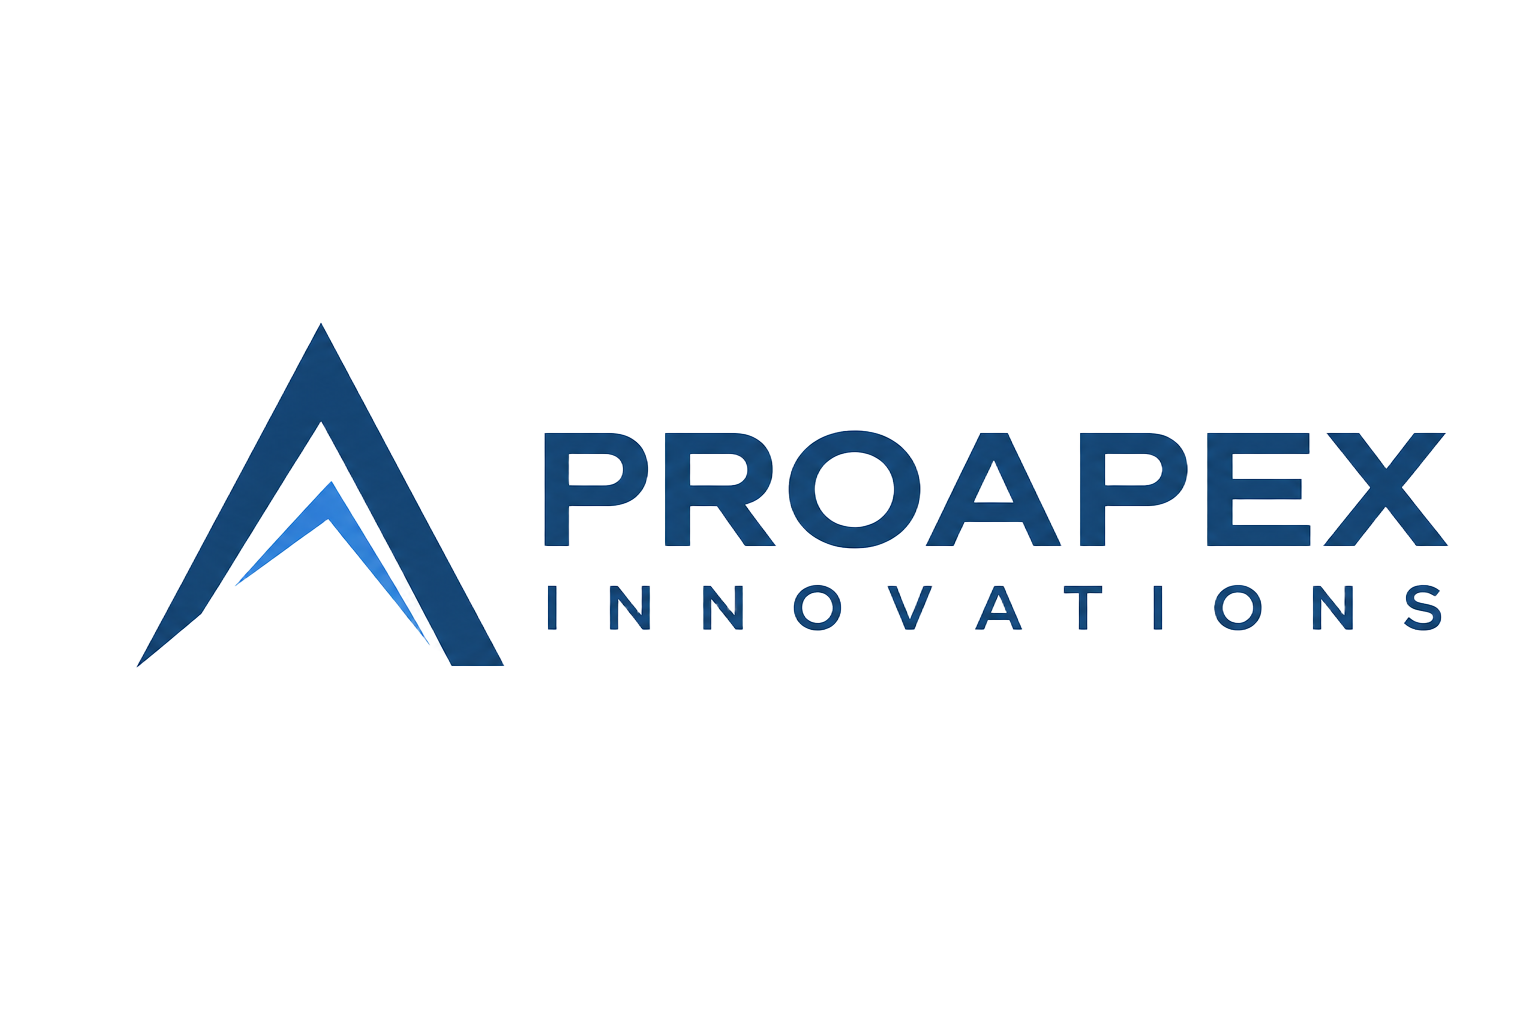
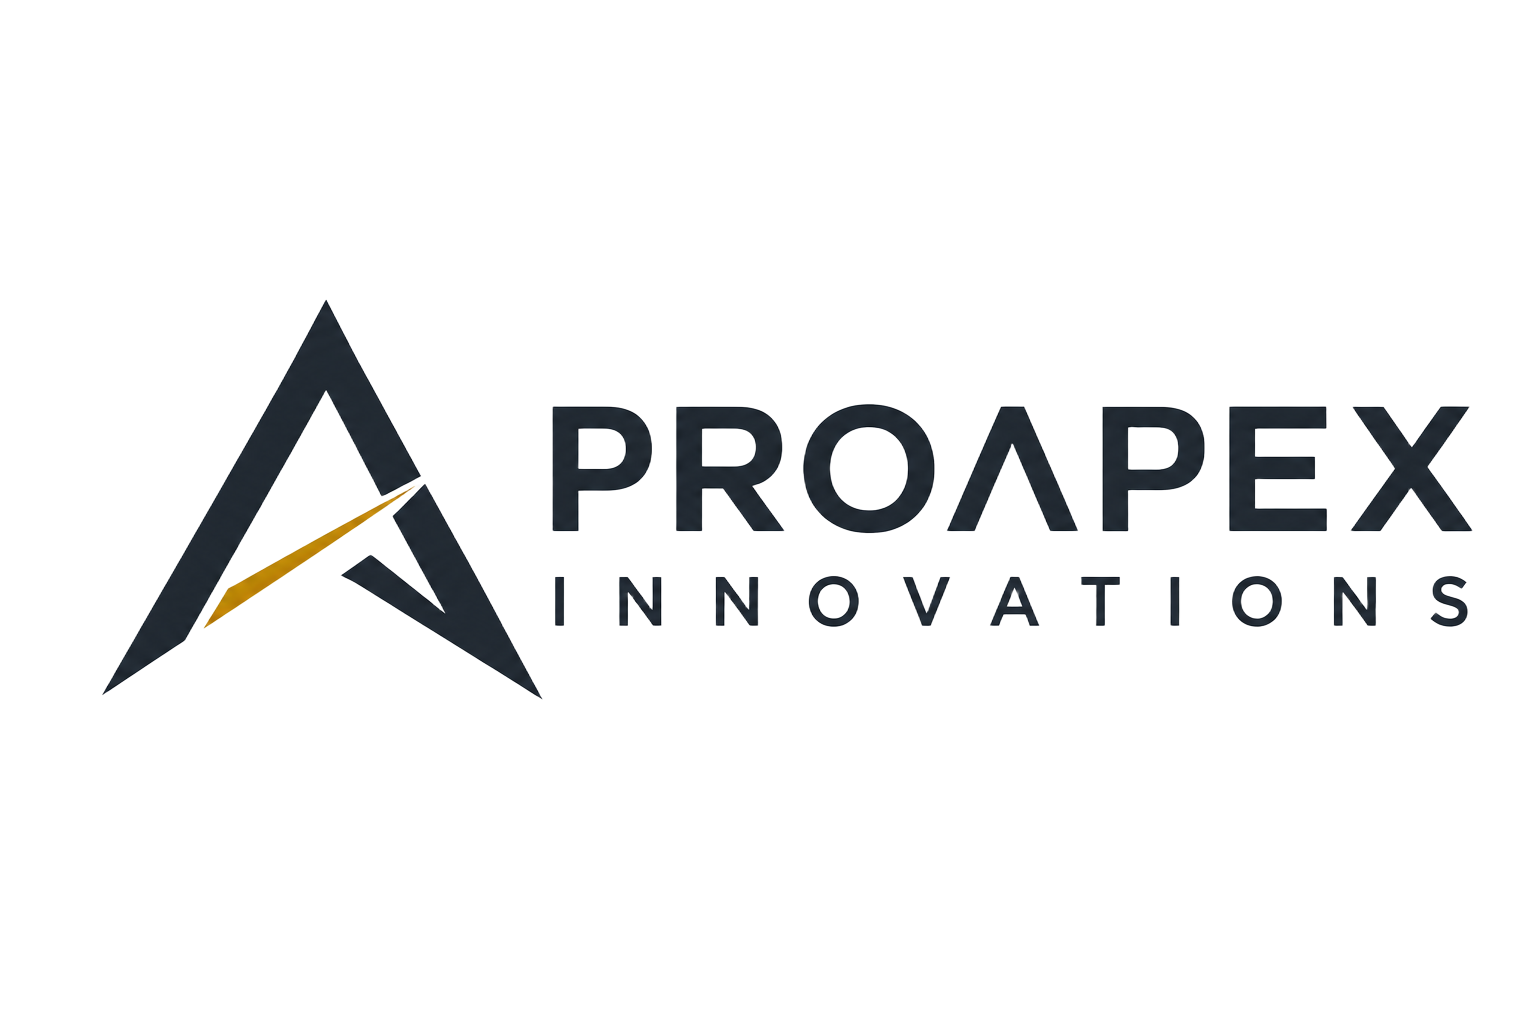
Reverted to commit 54ce74ddcfceee0e83c210924358f393b460a70a

Changed region(s): [[0.0625, 0.2812, 0.9688, 0.6875], [0.3438, 0.375, 0.9688, 0.5312]]

diff --git a/src/styles.css b/src/styles.css
@@ -43,38 +43,39 @@
 }
 
 :root {
-  /* Palette adapted to the existing deep-blue logo + Playfair/Outfit type.
-     White background, logo-matched navy text, soft sky accents. */
-  --navy: #1e4a72;        /* logo deep blue — primary text / dark surface */
-  --navy2: #143655;       /* deeper navy */
-  --slate-ink: #2e6296;   /* secondary text */
-  --muted-ink: #5b7a99;   /* muted text */
-  --line: #dbe6f1;        /* soft blue-grey border */
-  --cream: #f4f8fc;       /* off-white surface with blue undertone */
-  --gold: #2e6296;        /* accent: mid blue (italic highlight) */
-  --gold2: #5fa8d3;       /* light blue highlight (matches logo accent stroke) */
+  /* Palette: Crisp White background, Charcoal text, Gold + Emerald accents. */
+  --navy: #1f2937;        /* charcoal — primary text / dark surface */
+  --navy2: #111827;       /* deeper charcoal */
+  --slate-ink: #374151;   /* secondary text */
+  --muted-ink: #6b7280;   /* muted text */
+  --line: #e5e7eb;        /* neutral border */
+  --cream: #f9fafb;       /* off-white surface */
+  --gold: #b8860b;        /* gold accent */
+  --gold2: #d4af37;       /* lighter gold highlight */
+  --emerald: #047857;     /* emerald accent */
+  --emerald2: #10b981;    /* lighter emerald */
   --background: #ffffff;
-  --foreground: #1e4a72;
+  --foreground: #1f2937;
   --nav-h: 130px;
 
   /* shadcn tokens mapped onto the palette */
-  --primary: #1e4a72;
+  --primary: #1f2937;
   --primary-foreground: #ffffff;
-  --secondary: #f4f8fc;
-  --secondary-foreground: #1e4a72;
-  --muted: #eef4fa;
-  --muted-foreground: #5b7a99;
-  --accent: #5fa8d3;
-  --accent-foreground: #143655;
+  --secondary: #f9fafb;
+  --secondary-foreground: #1f2937;
+  --muted: #f3f4f6;
+  --muted-foreground: #6b7280;
+  --accent: #047857;
+  --accent-foreground: #ffffff;
   --destructive: #dc2626;
   --destructive-foreground: #ffffff;
-  --border: #dbe6f1;
-  --input: #dbe6f1;
-  --ring: #2e6296;
+  --border: #e5e7eb;
+  --input: #e5e7eb;
+  --ring: #b8860b;
   --card: #ffffff;
-  --card-foreground: #1e4a72;
+  --card-foreground: #1f2937;
   --popover: #ffffff;
-  --popover-foreground: #1e4a72;
+  --popover-foreground: #1f2937;
 }
 
 @layer base {
